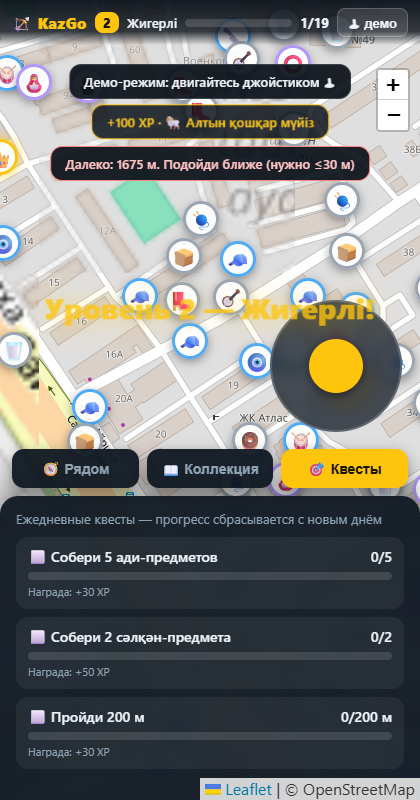
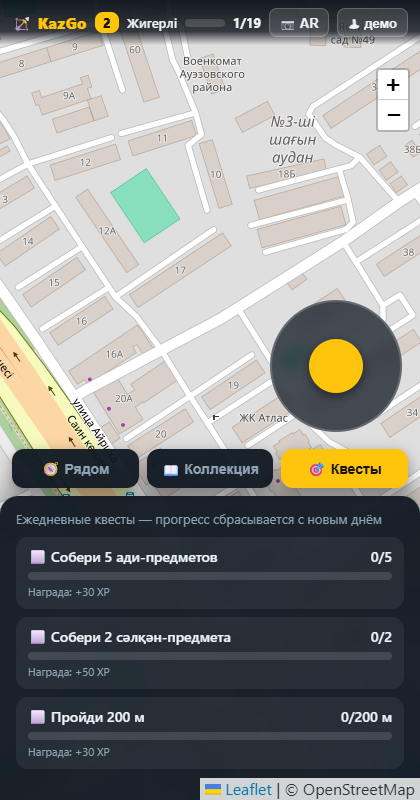
feat: AR mode (camera + GPS + compass overlay, item projection in view)

diff --git a/js/main.js b/js/main.js
@@ -466,6 +466,133 @@ function switchTab(name) {
   if (name === 'nearby') renderNearby();
 }
 
+/* ================= AR-РЕЖИМ (камера + компас) ================= */
+const AR_RANGE = 150;    // м — насколько далеко показывать в AR
+const AR_FOV = 60;       // горизонтальное поле обзора камеры, град
+let arActive = false;
+let arStream = null;
+const arHeading = { h: null, t: 0 };
+let arItems = {};        // key -> {el}
+
+function arCompassText(deg) {
+  if (deg == null) return '🧭 —';
+  const dirs = ['С', 'СВ', 'В', 'ЮВ', 'Ю', 'ЮЗ', 'З', 'СЗ'];
+  return '🧭 ' + Math.round(deg) + '° ' + dirs[Math.round(deg / 45) % 8];
+}
+function onDeviceOrientation(e) {
+  let h = null, src = null;
+  if (e.webkitCompassHeading != null) { h = e.webkitCompassHeading; src = 'webkit'; }
+  else if (e.absolute && e.alpha != null) { h = (360 - e.alpha) % 360; src = 'absolute'; }
+  else if (e.alpha != null) { h = (360 - e.alpha) % 360; src = 'alpha'; }
+  if (h == null) return;
+  if (src !== 'webkit' && window.screen && screen.orientation) {
+    h = (h + (screen.orientation.angle || 0)) % 360;
+  }
+  arHeading.h = h;
+  arHeading.t = Date.now();
+}
+async function ensureOrientationPermission() {
+  try {
+    if (typeof DeviceOrientationEvent !== 'undefined' && typeof DeviceOrientationEvent.requestPermission === 'function') {
+      const r = await DeviceOrientationEvent.requestPermission(); // iOS: только по жесту пользователя
+      if (r !== 'granted') toast('Доступ к компасу запрещён — направление может быть неточным', 'warn');
+    }
+  } catch (e) { /* desktop — не критично */ }
+}
+async function openAR() {
+  if (arActive) return;
+  if (player.lat == null) { toast('Сначала начните игру (GPS или демо)', 'warn'); return; }
+  await ensureOrientationPermission();
+  const screen = $('ar-screen');
+  screen.classList.remove('hidden');
+  try {
+    arStream = await navigator.mediaDevices.getUserMedia({ video: { facingMode: 'environment' }, audio: false });
+  } catch (e) {
+    toast('Нет доступа к камере', 'warn');
+    screen.classList.add('hidden');
+    return;
+  }
+  arActive = true;
+  $('ar-video').srcObject = arStream;
+  window.addEventListener('deviceorientation', onDeviceOrientation);
+  requestAnimationFrame(arLoop);
+}
+function closeAR() {
+  arActive = false;
+  window.removeEventListener('deviceorientation', onDeviceOrientation);
+  if (arStream) { arStream.getTracks().forEach(t => t.stop()); arStream = null; }
+  const v = $('ar-video');
+  if (v) v.srcObject = null;
+  $('ar-layer').innerHTML = '';
+  arItems = {};
+  $('ar-edge-left').classList.add('hidden');
+  $('ar-edge-right').classList.add('hidden');
+  $('ar-screen').classList.add('hidden');
+}
+function ensureAREl(key, item) {
+  if (arItems[key]) return arItems[key].el;
+  const el = document.createElement('div');
+  el.className = 'ar-item r-' + item.rarity;
+  el.innerHTML = '<div class="m">' + item.emoji + '</div><span class="d"></span>';
+  el.addEventListener('click', () => tryCollect(key));
+  $('ar-layer').appendChild(el);
+  arItems[key] = { el };
+  return el;
+}
+function setEdge(id, best) {
+  const el = $(id);
+  if (!best) { el.classList.add('hidden'); return; }
+  el.classList.remove('hidden');
+  const arrow = id === 'ar-edge-left' ? '‹ ' : '';
+  const tail = id === 'ar-edge-right' ? ' ›' : '';
+  el.textContent = arrow + best.v.item.name + ' ' + Math.round(best.d) + ' м' + tail;
+}
+function renderAR() {
+  const fresh = arHeading.h != null && Date.now() - arHeading.t < 4000;
+  $('ar-compass').textContent = arCompassText(fresh ? arHeading.h : null);
+  if (!fresh) {
+    $('ar-hint').textContent = 'Ждём компас… (на iPhone разрешите движение и ориентацию)';
+    for (const k in arItems) { arItems[k].el.remove(); delete arItems[k]; }
+    setEdge('ar-edge-left', null); setEdge('ar-edge-right', null);
+    return;
+  }
+  $('ar-hint').textContent = 'Идите к предмету. Коснитесь предмета, когда рядом (≤' + COLLECT_RADIUS + ' м)';
+  const seen = {};
+  let leftBest = null, rightBest = null;
+  for (const [key, v] of Object.entries(visible)) {
+    const d = haversine(player.lat, player.lng, v.lat, v.lng);
+    if (d > AR_RANGE) continue;
+    seen[key] = true;
+    const B = bearing(player.lat, player.lng, v.lat, v.lng);
+    const A = (B - arHeading.h + 540) % 360 - 180;
+    if (Math.abs(A) > 33) {
+      if (A > 0) { if (!rightBest || d < rightBest.d) rightBest = { key, v, d, A }; }
+      else if (!leftBest || d < leftBest.d) leftBest = { key, v, d, A };
+      continue;
+    }
+    const el = ensureAREl(key, v.item);
+    const scale = 1.9 - Math.min(d, 140) / 140 * 1.5; // близко — крупно
+    const size = Math.round(46 * scale);
+    el.style.left = (50 + (A / AR_FOV) * 55) + '%';
+    el.style.top = (46 + Math.min(d, 110) / 110 * 26) + '%';
+    const m = el.querySelector('.m');
+    m.style.width = size + 'px';
+    m.style.height = size + 'px';
+    m.style.fontSize = Math.round(size * 0.52) + 'px';
+    const dEl = el.querySelector('.d');
+    dEl.textContent = d <= COLLECT_RADIUS ? 'собери сейчас! ' + Math.round(d) + ' м' : Math.round(d) + ' м';
+    el.classList.toggle('near', d <= COLLECT_RADIUS);
+  }
+  for (const key in arItems) if (!seen[key]) { arItems[key].el.remove(); delete arItems[key]; }
+  setEdge('ar-edge-left', leftBest);
+  setEdge('ar-edge-right', rightBest);
+}
+function arLoop() {
+  if (!arActive) return;
+  renderAR();
+  requestAnimationFrame(arLoop);
+}
+
 /* ================= СТАРТ ================= */
 window.addEventListener('DOMContentLoaded', () => {
   initMap();
@@ -476,6 +603,8 @@ window.addEventListener('DOMContentLoaded', () => {
   $('btn-gps').onclick = () => { audio(); startGps(); };
   $('btn-demo').onclick = () => { audio(); startDemo(); };
   $('mode-btn').onclick = () => { if (mode === 'demo') startGps(); else if (mode === 'gps') startDemo(); };
+  $('btn-ar').onclick = () => openAR();
+  $('btn-ar-close').onclick = closeAR;
   document.querySelectorAll('#tabs button').forEach(b => b.addEventListener('click', () => switchTab(b.dataset.tab)));
   initJoystick();
   requestAnimationFrame(loop);

diff --git a/_smoke.js b/_smoke.js
@@ -6,7 +6,8 @@ const puppeteer = require('C:/Users/2022/kazakh-3d-game/node_modules/puppeteer')
   const browser = await puppeteer.launch({
     executablePath: 'C:\\Program Files\\Google\\Chrome\\Application\\chrome.exe',
     headless: true,
-    args: ['--no-sandbox', '--enable-unsafe-swiftshader', '--window-size=420,800'],
+    args: ['--no-sandbox', '--enable-unsafe-swiftshader', '--window-size=420,800',
+           '--use-fake-ui-for-media-stream', '--use-fake-device-for-media-stream'],
     defaultViewport: { width: 420, height: 800 },
   });
   const page = await browser.newPage();
@@ -84,6 +85,35 @@ const puppeteer = require('C:/Users/2022/kazakh-3d-game/node_modules/puppeteer')
     });
     if (quests !== 3) throw new Error('квестов: ' + quests);
     console.log('QUESTS_OK 3');
+
+    // AR-режим: фейковая камера + сымитированный компас
+    const ar = await page.evaluate(async () => {
+      document.getElementById('btn-ar').click();
+      await new Promise(r => setTimeout(r, 1800));
+      const screen = document.getElementById('ar-screen');
+      const video = document.getElementById('ar-video');
+      window.dispatchEvent(new DeviceOrientationEvent('deviceorientation', { alpha: 120, absolute: true, beta: 0, gamma: 0 }));
+      await new Promise(r => setTimeout(r, 800));
+      const near = document.querySelectorAll('.ar-item.near').length;
+      return {
+        hidden: screen.classList.contains('hidden'),
+        videoReady: video.readyState >= 2,
+        items: document.querySelectorAll('.ar-item').length,
+        near,
+        compass: document.getElementById('ar-compass').textContent,
+      };
+    });
+    console.log('AR', JSON.stringify(ar));
+    if (ar.hidden) throw new Error('AR-экран не открылся');
+    if (!ar.videoReady) throw new Error('видео не запустилось');
+    if (ar.items < 1) throw new Error('в AR нет предметов');
+    if (!/°/.test(ar.compass)) throw new Error('компас не отрисован: ' + ar.compass);
+    await page.screenshot({ path: 'C:/Users/2022/kazgo/_ar.png' });
+    await page.evaluate(() => document.getElementById('btn-ar-close').click());
+    await new Promise(r => setTimeout(r, 400));
+    const arClosed = await page.evaluate(() => document.getElementById('ar-screen').classList.contains('hidden'));
+    if (!arClosed) throw new Error('AR не закрылся');
+    console.log('AR_OK');
 
     await page.screenshot({ path: 'C:/Users/2022/kazgo/_smoke.png' });
 

diff --git a/css/style.css b/css/style.css
@@ -126,3 +126,28 @@ html,body{height:100%;margin:0;overflow:hidden;background:var(--bg);
 /* leaflet: не перекрывать топбаром */
 .leaflet-top.leaflet-right{margin-top:58px}
 .leaflet-container{font:inherit}
+
+/* ===== AR-режим ===== */
+#ar-screen{position:fixed;inset:0;z-index:4000;background:#000}
+#ar-video{position:absolute;inset:0;width:100%;height:100%;object-fit:cover}
+#ar-layer{position:absolute;inset:0;overflow:hidden}
+.ar-item{position:absolute;transform:translate(-50%,-50%);text-align:center;cursor:pointer}
+.ar-item .m{display:flex;align-items:center;justify-content:center;margin:0 auto;border-radius:50%;
+  background:rgba(255,255,255,.95);border:3px solid #9aa5b1;box-shadow:0 3px 10px rgba(0,0,0,.45)}
+.ar-item.r-rare .m{border-color:#4dabf7}
+.ar-item.r-epic .m{border-color:#b197fc}
+.ar-item.r-legendary .m{border-color:#fec50c;box-shadow:0 0 18px 6px rgba(254,197,12,.7)}
+.ar-item .d{display:block;margin-top:2px;font-size:11px;font-weight:700;color:#fff;text-shadow:0 1px 3px #000}
+.ar-item.near .d{color:var(--gold)}
+.ar-edge{position:absolute;top:38%;transform:translateY(-50%);background:rgba(10,16,24,.72);color:#fff;
+  padding:8px 12px;border-radius:12px;font-size:13px;font-weight:700;pointer-events:none;white-space:nowrap}
+#ar-edge-left{left:10px}
+#ar-edge-right{right:10px}
+#ar-hud{position:absolute;top:14px;left:0;right:0;display:flex;justify-content:center;pointer-events:none}
+#ar-compass{background:rgba(10,16,24,.75);padding:8px 16px;border-radius:14px;font-size:16px;font-weight:800;color:var(--gold)}
+#ar-hint{position:absolute;bottom:96px;left:0;right:0;text-align:center;font-size:13px;color:#fff;
+  text-shadow:0 1px 4px #000;pointer-events:none;padding:0 20px}
+#btn-ar-close{position:absolute;bottom:24px;left:50%;transform:translateX(-50%);background:rgba(10,16,24,.8);
+  border:1px solid rgba(255,255,255,.3);color:#fff;padding:12px 26px;border-radius:14px;font-size:15px;font-weight:800}
+#btn-ar{background:rgba(255,255,255,.12);border:1px solid rgba(255,255,255,.2);color:var(--text);
+  border-radius:8px;padding:5px 9px;font-size:13px;font-weight:700;cursor:pointer;white-space:nowrap}

diff --git a/index.html b/index.html
@@ -18,6 +18,7 @@
     <span class="lvl-name" id="level-name">Ушырын</span>
     <div class="xp-wrap"><div class="xp-bar"><div id="xp-fill"></div></div></div>
     <span id="count">0/19</span>
+    <button id="btn-ar">📷 AR</button>
     <button id="mode-btn">—</button>
   </header>
 
@@ -39,6 +40,16 @@
 
   <div id="levelup" class="hidden"><span id="levelup-text"></span></div>
 
+  <div id="ar-screen" class="hidden">
+    <video id="ar-video" autoplay playsinline muted></video>
+    <div id="ar-layer"></div>
+    <div id="ar-edge-left" class="ar-edge hidden"></div>
+    <div id="ar-edge-right" class="ar-edge hidden"></div>
+    <div id="ar-hud"><div id="ar-compass">🧭 —</div></div>
+    <div id="ar-hint"></div>
+    <button id="btn-ar-close">✖ выйти из AR</button>
+  </div>
+
   <div id="start-overlay">
     <div class="hero-emojis">🪕 🎻 🧿 ⭕ 👑</div>
     <h1>KazGo</h1>
@@ -47,11 +58,13 @@
     <ul>
       <li>📍 <b>GPS-режим</b> — иди по городу и собирай предметы в радиусе 30 м</li>
       <li>🕹 <b>Демо-режим</b> — виртуальный джойстик, если нет GPS</li>
+      <li>📷 <b>AR-режим</b> — смотри предметы через камеру и иди к ним</li>
       <li>⭐ XP, уровни, ежедневные квесты и кодекс коллекции</li>
     </ul>
     <button id="btn-gps">📍 Начать идти (GPS)</button>
     <button id="btn-demo">🕹 Демо-режим</button>
-    <p class="note">GPS в браузере работает по HTTPS (или на localhost). Карта — OpenStreetMap, нужен интернет.</p>
+    <p class="note">GPS в браузере работает по HTTPS (или на localhost). Карта — OpenStreetMap, нужен интернет.
+    AR требует камеру и датчики движения (на iPhone разрешите их в диалоге).</p>
   </div>
 
   <script src="https://unpkg.com/leaflet@1.9.4/dist/leaflet.js"></script>

diff --git a/README.md b/README.md
@@ -11,6 +11,8 @@
 - 📖 Кодекс: 19 предметов, 4 редкости (ади / сәлқән / тарихылы / легендалық)
 - ⭐ XP и уровни с казахскими названиями (Ушырын → Батыр)
 - 🎯 Ежедневные квесты
+- 📷 **AR-режим** — камера + GPS + компас: предметы проецируются в кадр по направлению и расстоянию,
+  крупность растёт при приближении; касание предмета в кадре = сбор
 - 🔊 Синтезированные звуки домбры (WebAudio)
 - 💾 Прогресс хранится в браузере (localStorage)
 
@@ -37,6 +39,17 @@ python -m http.server 8412
 - После сбора клетка пустует 90 секунд, затем в ней появляется новый предмет.
 - Радиус мира — 350 м от игрока; гарантированно есть предмет в пределах ~120 м.
 - Шанс предмета в клетке ~34%; редкости: ади 55%, сәлқән 25%, тарихылы 15%, легендалық 5%.
+
+## Как работает AR-режим
+
+- `getUserMedia` с задней камерой (facingMode: environment) — живой видеопоток на весь экран.
+- Компас: `deviceorientation` — приоритет `webkitCompassHeading` (Android), затем `absolute`/`alpha`
+  с учётом ориентации экрана; на iOS (13+) `DeviceOrientationEvent.requestPermission()` вызывается
+  по нажатию кнопки AR (требование Apple — только user gesture).
+- Проекция: азимут «игрок→предмет» минус текущий азимут телефона; |Δ| ≤ 33° — предмет в кадре
+  (x по Δ, размер и высота — по расстоянию), иначе — стрелка-указатель у края экрана.
+- Это «камера-оверлей» AR (как классический Pokémon GO); полноценный 3D-AR с распознаванием
+  плоскостей (WebXR immersive-ar) работает только на Android, на iOS — только через нативное приложение.
 
 ## Идеи на потом
 
